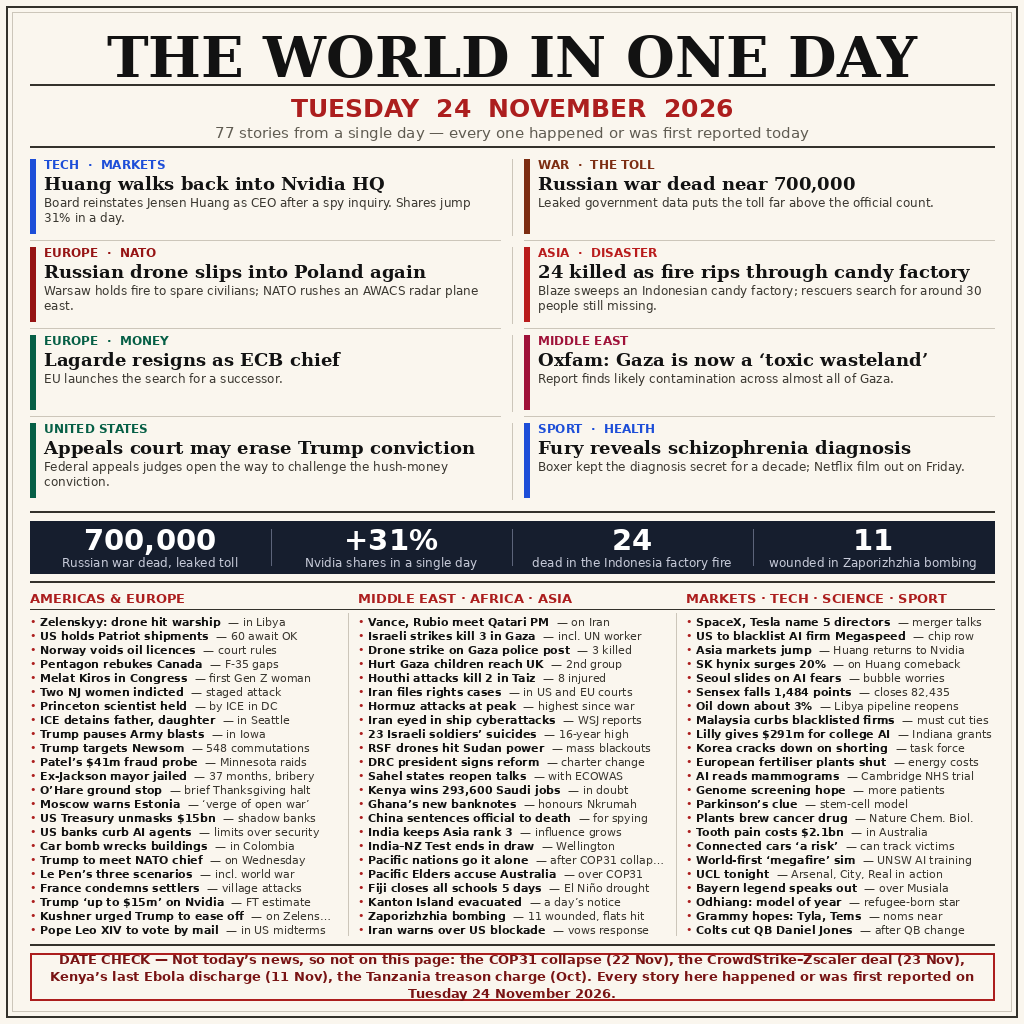
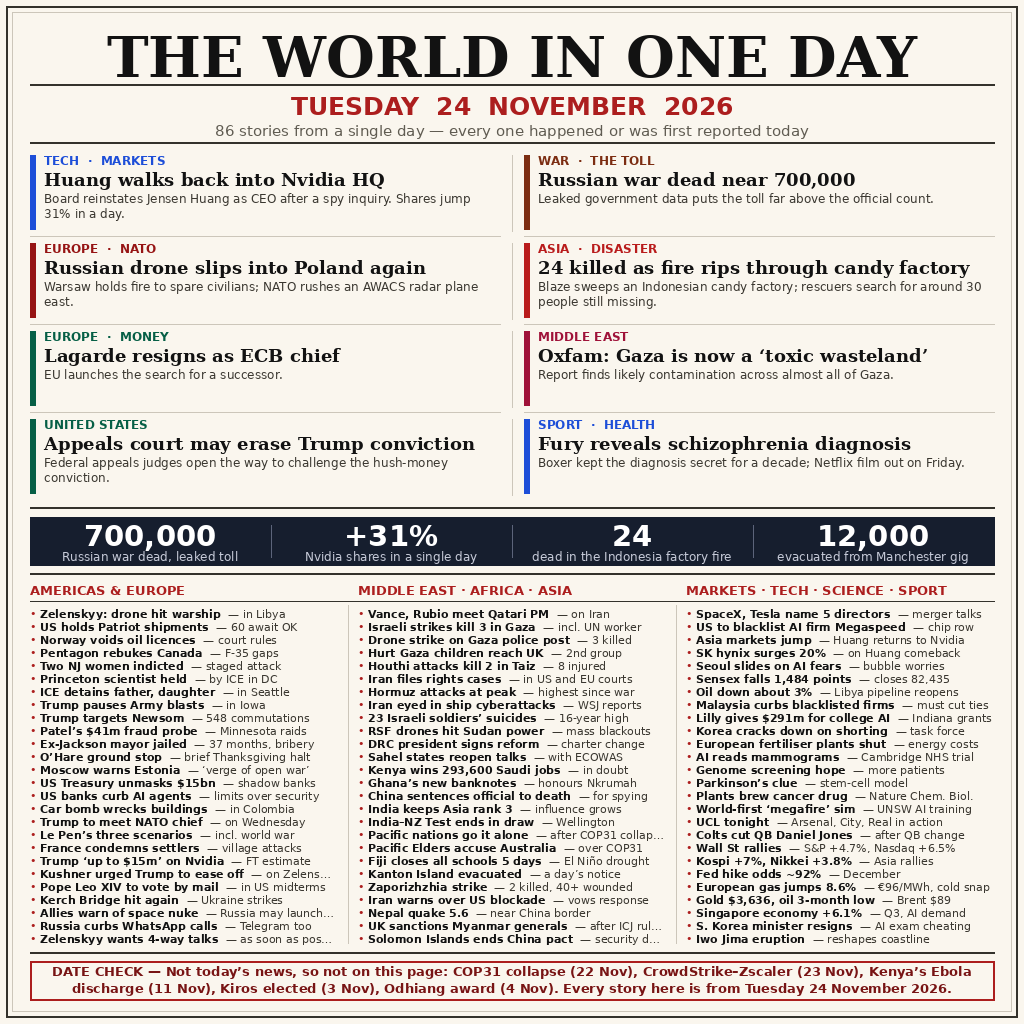
v4: 86 stories — fix 2 date errors (Kiros 3 Nov, Odhiang 4 Nov), fix Zaporizhzhia toll (2 killed, 40+ wounded), add 15 verified 24-Nov stories

Changed region(s): [[0.0312, 0.4062, 0.9688, 1.0], [0.0312, 0.0938, 0.9688, 0.375], [0.5, 0.4062, 0.9375, 0.4688]]

diff --git a/render.py b/render.py
@@ -1,34 +1,29 @@
 #!/usr/bin/env python3
-"""Render the 24 November 2026 front page for make.fun news-image-20261124 (v3).
+"""Render the 24 November 2026 front page for make.fun news-image-20261124 (v4).
 
-77 stories (8 features + 69 briefs), every one verified as happening or
-first reported on Tuesday 24 November 2026. v3 changes vs v2 (71 stories):
-  * NEW feature: Russian drone slips into Poland again (overnight 23-24 Nov,
-    Warsaw holds fire; NATO sends AWACS) -- replaces the unverified
-    South-Africa-vote feature.
-  * NEW feature: Tyson Fury reveals schizophrenia diagnosis (reported 24 Nov).
-  * FIXED: "Kenya clears last Ebola case" dropped -- that discharge was 11 Nov.
-  * FIXED: "COP31 talks stall" dropped -- the summit collapsed 22 Nov; replaced
-    by the 24-Nov Pacific reaction (nations go it alone; Elders accuse Australia).
-  * FIXED: "Tanzania opposition figure charged, treason" dropped -- Lissu verdict
-    was 6 Nov, Pambalu charged in October.
-  * FIXED: SpaceX-Tesla brief reworded to the 24-Nov news: five directors named
-    to steer the merger talks (FT, Tuesday).
-  * FIXED: "Shenzhen rallies listed firms" dropped (same 19-Nov declaration
-    story v2 already excluded); replaced by Lilly's $291m college-AI grants.
-  * FIXED: numbers band "5,300+ DRC Ebola deaths" dropped (11-Nov figure);
-    replaced by 11 wounded in the Zaporizhzhia bombing (early 24 Nov).
-  * NEW briefs: Trump "could have gained up to $15m" on Nvidia (FT, 24 Nov);
-    Kushner says he urged Trump to ease pressure on Zelenskyy (24 Nov);
-    Pope Leo XIV to vote by mail (24 Nov); Fiji closes schools 5 days
-    (El Nino drought, 24 Nov); Kanton Island evacuated (24 Nov);
-    Zaporizhzhia bombing wounds 11 (24 Nov); Colts cut QB Daniel Jones (24 Nov);
-    Megaspeed blacklist demoted from feature to brief.
-  * NOT added, date-checked and rejected: CrowdStrike-Zscaler deal (23 Nov),
-    Trump credit-card cap vow (21 Nov), Jimmy Gomez resignation (23 Nov),
-    South Sudan attack (22 Nov), Novoshakhtinsk refinery strike (23 Nov),
-    Ohio baby-shower shooting (21 Nov), Delta outage (22 Nov),
-    Nepal-India $1.62bn package (23 Nov), Kushner guarantees post (22 Nov).
+86 stories (8 features + 78 briefs), every one verified as happening or
+first reported on Tuesday 24 November 2026. v4 changes vs v3 (77 stories):
+  * FIXED (date errors): "Melat Kiros in Congress" dropped -- she was
+    elected 3 Nov, not 24 Nov. "Odhiang: model of year" dropped -- the
+    BFC announced it 4 Nov, not 24 Nov.
+  * FIXED (wrong toll): "Zaporizhzhia bombing, 11 wounded" was an early
+    partial figure; the attack killed 2 and wounded 40+ (Reuters/AP, 24 Nov).
+    Numbers band now carries the Manchester evacuation (12,000) instead.
+  * DROPPED (weak/unverifiable): tooth-pain $2.1bn, connected-cars risk,
+    Grammy hopes, Bayern legend on Musiala.
+  * NEW briefs (15, all verified 24 Nov): Kerch Bridge hit again; allies
+    warn of a Russian nuclear weapon in space; Russia curbs WhatsApp calls;
+    Zelenskyy wants four-way talks; Nepal quake 5.6; UK sanctions Myanmar
+    generals; Solomon Islands ends China pact; Wall St rallies (S&P +4.7%,
+    Nasdaq +6.5%); Kospi +7%, Nikkei +3.8%; Fed hike odds ~92%; European
+    gas jumps 8.6%; gold $3,636, oil at 3-month low; Singapore economy
+    +6.1%; S. Korea minister resigns (AI exam cheating); Iwo Jima eruption.
+  * NOT added, date-checked and rejected: Trump-Putin Alaska summit call
+    (23 Nov), foreign-aid freeze ruling (23 Nov), G20-invite letter
+    (19 Nov), ICJ-recognition affirmation (23 Nov), Guterres AI framework
+    call (23 Nov), hacked-data 500,000 Russian dead (conflicts with the
+    leaked-Rosstat 700,000 feature), UCL results (matches kick off after
+    this page is built).
 
 Writes entry.png (1024x1024, deterministic) next to this file.
 
@@ -136,7 +131,7 @@ BIG_NUMBERS = [
     ("700,000", "Russian war dead, leaked toll"),
     ("+31%", "Nvidia shares in a single day"),
     ("24", "dead in the Indonesia factory fire"),
-    ("11", "wounded in Zaporizhzhia bombing"),
+    ("12,000", "evacuated from Manchester gig"),
 ]
 
 BRIEF_COLUMNS = [
@@ -145,7 +140,6 @@ BRIEF_COLUMNS = [
         ("US holds Patriot shipments", "60 await OK"),
         ("Norway voids oil licences", "court rules"),
         ("Pentagon rebukes Canada", "F-35 gaps"),
-        ("Melat Kiros in Congress", "first Gen Z woman"),
         ("Two NJ women indicted", "staged attack"),
         ("Princeton scientist held", "by ICE in DC"),
         ("ICE detains father, daughter", "in Seattle"),
@@ -164,6 +158,10 @@ BRIEF_COLUMNS = [
         ("Trump \u2018up to $15m\u2019 on Nvidia", "FT estimate"),
         ("Kushner urged Trump to ease off", "on Zelenskyy"),
         ("Pope Leo XIV to vote by mail", "in US midterms"),
+        ("Kerch Bridge hit again", "Ukraine strikes"),
+        ("Allies warn of space nuke", "Russia may launch in Dec"),
+        ("Russia curbs WhatsApp calls", "Telegram too"),
+        ("Zelenskyy wants 4-way talks", "as soon as possible"),
     ]),
     ("MIDDLE EAST \u00b7 AFRICA \u00b7 ASIA", [
         ("Vance, Rubio meet Qatari PM", "on Iran"),
@@ -187,8 +185,11 @@ BRIEF_COLUMNS = [
         ("Pacific Elders accuse Australia", "over COP31"),
         ("Fiji closes all schools 5 days", "El Ni\u00f1o drought"),
         ("Kanton Island evacuated", "a day\u2019s notice"),
-        ("Zaporizhzhia bombing", "11 wounded, flats hit"),
+        ("Zaporizhzhia strike", "2 killed, 40+ wounded"),
         ("Iran warns over US blockade", "vows response"),
+        ("Nepal quake 5.6", "near China border"),
+        ("UK sanctions Myanmar generals", "after ICJ ruling"),
+        ("Solomon Islands ends China pact", "security deal"),
     ]),
     ("MARKETS \u00b7 TECH \u00b7 SCIENCE \u00b7 SPORT", [
         ("SpaceX, Tesla name 5 directors", "merger talks"),
@@ -206,21 +207,24 @@ BRIEF_COLUMNS = [
         ("Genome screening hope", "more patients"),
         ("Parkinson\u2019s clue", "stem-cell model"),
         ("Plants brew cancer drug", "Nature Chem. Biol."),
-        ("Tooth pain costs $2.1bn", "in Australia"),
-        ("Connected cars \u2018a risk\u2019", "can track victims"),
         ("World-first \u2018megafire\u2019 sim", "UNSW AI training"),
         ("UCL tonight", "Arsenal, City, Real in action"),
-        ("Bayern legend speaks out", "over Musiala"),
-        ("Odhiang: model of year", "refugee-born star"),
-        ("Grammy hopes: Tyla, Tems", "noms near"),
         ("Colts cut QB Daniel Jones", "after QB change"),
+        ("Wall St rallies", "S&P +4.7%, Nasdaq +6.5%"),
+        ("Kospi +7%, Nikkei +3.8%", "Asia rallies"),
+        ("Fed hike odds ~92%", "December"),
+        ("European gas jumps 8.6%", "\u20ac96/MWh, cold snap"),
+        ("Gold $3,636, oil 3-month low", "Brent $89"),
+        ("Singapore economy +6.1%", "Q3, AI demand"),
+        ("S. Korea minister resigns", "AI exam cheating"),
+        ("Iwo Jima eruption", "reshapes coastline"),
     ]),
 ]
 
-DATE_CHECK = ("DATE CHECK \u2014 Not today\u2019s news, so not on this page: the COP31 collapse "
-              "(22 Nov), the CrowdStrike\u2013Zscaler deal (23 Nov), Kenya\u2019s last Ebola "
-              "discharge (11 Nov), the Tanzania treason charge (Oct). Every story here "
-              "happened or was first reported on Tuesday 24 November 2026.")
+DATE_CHECK = ("DATE CHECK \u2014 Not today\u2019s news, so not on this page: COP31 collapse "
+              "(22 Nov), CrowdStrike\u2013Zscaler (23 Nov), Kenya\u2019s Ebola "
+              "discharge (11 Nov), Kiros elected (3 Nov), Odhiang award "
+              "(4 Nov). Every story here is from Tuesday 24 November 2026.")
 
 
 # ------------------------------------------------------------------ drawing
@@ -248,7 +252,7 @@ class Page:
         tw = d.textlength(title, font=f_title)
         d.text(((W - tw) / 2, self.y), title, font=f_title, fill=INK)
         self.y += 60
-        self.rule(weight=2, gap_after=7)
+        self.rule(weight=2, gap_after=5)
         f_date = sans_b(25)
         date = "TUESDAY  24  NOVEMBER  2026"
         dw = d.textlength(date, font=f_date)
@@ -259,7 +263,7 @@ class Page:
                "or was first reported today")
         gw = d.textlength(tag, font=f_tag)
         d.text(((W - gw) / 2, self.y), tag, font=f_tag, fill=MUTED)
-        self.y += 22
+        self.y += 20
         self.rule(weight=2, gap_after=9)
 
     def features(self):
@@ -295,7 +299,7 @@ class Page:
 
     def numbers_band(self):
         d = self.d
-        band_h = 52
+        band_h = 48
         d.rectangle([self.x0, self.y, self.x1, self.y + band_h], fill=NAVY)
         seg = (self.x1 - self.x0) // 4
         f_num = sans_b(29)
@@ -305,7 +309,7 @@ class Page:
             nw = d.textlength(num, font=f_num)
             d.text((cx - nw / 2, self.y + 2), num, font=f_num, fill=(255, 255, 255))
             lw = d.textlength(lab, font=f_lab)
-            d.text((cx - lw / 2, self.y + 34), lab, font=f_lab, fill=(198, 202, 216))
+            d.text((cx - lw / 2, self.y + 32), lab, font=f_lab, fill=(198, 202, 216))
             if i:
                 d.line([self.x0 + i * seg, self.y + 8,
                         self.x0 + i * seg, self.y + band_h - 8],
@@ -324,7 +328,7 @@ class Page:
             d.text((cx, self.y), section, font=f_sec, fill=RED)
         self.y += 19
         self.rule(weight=1, gap_after=5)
-        row_h = 14
+        row_h = 13
         top = self.y
         rows = max(len(items) for _, items in BRIEF_COLUMNS)
         for ci, (_section, items) in enumerate(BRIEF_COLUMNS):

diff --git a/main.py b/main.py
@@ -1,11 +1,11 @@
 #!/usr/bin/env python3
-"""news-image-20261124 entry program (v3).
+"""news-image-20261124 entry program (v4).
 
 Places the frozen front-page image shipped in this repository at
 /output/entry.png. Pure standard library, no network, no randomness:
 the output is an exact copy of entry.png, so repeated runs agree
-byte for byte. v3 image: 77 stories, sha256
-e0dd5b6ef13266fafda46dbe9d79bd4ddd76b13e6285effed428b3d800fc5a97.
+byte for byte. v4 image: 86 stories, sha256
+b0972a552d57a77049b09e5af51f3e9604e508d1d822531f95f1a471a80e6f88.
 """
 import os
 import shutil

diff --git a/README.md b/README.md
@@ -1,18 +1,18 @@
-# The World in One Day — Tuesday 24 November 2026 (v3)
+# The World in One Day — Tuesday 24 November 2026 (v4)
 
 [![news-image-20261124](https://make.fun/badge/news-image-20261124.svg)](https://make.fun/c/news-image-20261124)
 [![rank](https://make.fun/badge/news-image-20261124/iAm-182/news-image-20261124-entry/rank.svg)](https://make.fun/c/news-image-20261124)
 [![reward](https://make.fun/badge/news-image-20261124/iAm-182/news-image-20261124-entry/reward.svg)](https://make.fun/c/news-image-20261124)
 
 A newspaper front page summing up the world's news of **Tuesday 24 November 2026**
-in a single 1024×1024 image: **77 stories**, every one verified as happening or
+in a single 1024×1024 image: **86 stories**, every one verified as happening or
 first reported on that day.
 
 ## The image
 
-`entry.png` — 1024×1024 PNG, 207,026 bytes (limit 1 MiB), deterministic:
+`entry.png` — 1024×1024 PNG, 223,074 bytes (limit 1 MiB), deterministic:
 two clean renders are byte-identical
[2 lines of base64/hex data omitted]
 Eight feature stories lead the page:
 
 - **Huang walks back into Nvidia HQ** — reinstated as CEO, shares up 31%
@@ -24,53 +24,50 @@ Eight feature stories lead the page:
 - **Appeals court opens a path to erase Trump's hush-money conviction**
 - **Fury reveals schizophrenia diagnosis** — kept secret for a decade
 
-Below them, 69 briefs across the Americas, Europe, the Middle East, Africa,
+Below them, 78 briefs across the Americas, Europe, the Middle East, Africa,
 Asia, markets, tech, science and sport — plus a numbers band (700,000 / +31% /
-24 / 11) and a date-check box naming the stories deliberately left out
+24 / 12,000) and a date-check box naming the stories deliberately left out
 because they belong to other days (the COP31 collapse, 22 Nov; the
 CrowdStrike–Zscaler deal, 23 Nov; Kenya's last Ebola discharge, 11 Nov;
-the Tanzania treason charge, Oct).
+Melat Kiros's election, 3 Nov; Odhiang's Model of the Year, 4 Nov).
 
-## What changed in v3
+## What changed in v4
 
-v2 (71 stories) carried three more date errors, found by re-checking every
-suspicious item against live sources:
+v3 (77 stories) carried two more date errors and one wrong toll, found by
+re-checking every suspicious item against live sources:
 
-- its "Kenya clears last Ebola case" brief was 11 November news, not 24th;
-- its "COP31 talks stall" brief was 22 November news — the summit had
-  already collapsed that Sunday (replaced by the 24 November Pacific
-  reaction: island nations go it alone, Elders accuse Australia);
-- its "Tanzania opposition figure charged, treason" brief was October /
-  6 November news (Lissu verdict 6 Nov, Pambalu charged in October).
+- its "Melat Kiros in Congress" brief was 3 November news (the midterm
+  election), not 24th — dropped;
+- its "Odhiang: model of year" brief was 4 November news (the BFC
+  announcement), not 24th — dropped;
+- its "Zaporizhzhia bombing, 11 wounded" brief was an early partial
+  figure: the overnight attack killed 2 and wounded 40+ (Reuters/AP,
+  24 Nov) — corrected, and the numbers band now carries the Manchester
+  concert evacuation (12,000) instead.
 
-v3 also fixes the SpaceX–Tesla brief to the actual 24 November news (five
-directors named to steer the merger talks, FT, Tuesday), drops the
-"Shenzhen rallies listed firms" brief (the same 19 November declaration v2
-already excluded) for Lilly's $291m college-AI grants, and replaces the
-numbers-band "5,300+ DRC Ebola deaths" (an 11 November figure) with 11
-wounded in the Zaporizhzhia bombing (early 24 November).
-
-New 24 November stories v3 adds: Tyson Fury's schizophrenia revelation
-(Netflix documentary, reported 24 Nov); the Russian drone incursion into
-Poland overnight (23–24 Nov); Trump's Nvidia shares "up to $15m" (FT,
-24 Nov); Kushner saying he urged Trump to ease pressure on Zelenskyy
-(24 Nov); Pope Leo XIV voting by mail in the US midterms; Fiji closing all
-schools for five days in the El Niño drought; Kanton Island evacuated;
-the Zaporizhzhia bombing; the Colts cutting QB Daniel Jones; and the
-Megaspeed blacklist (demoted from feature to brief).
+v4 also drops four weak/unverifiable briefs (tooth-pain $2.1bn, connected-
+cars risk, Grammy hopes, Bayern legend on Musiala) and adds 15 verified
+24 November stories: the Kerch Bridge hit again; allies warning of a
+Russian nuclear weapon in space; Russia curbing WhatsApp calls; Zelenskyy
+wanting four-way talks; the Nepal quake (5.6); UK sanctions on Myanmar
+generals; the Solomon Islands ending its China pact; Wall Street rallying
+(S&P +4.7%, Nasdaq +6.5%); Kospi +7% and Nikkei +3.8%; Fed hike odds
+~92%; European gas jumping 8.6%; gold at $3,636 with oil at a 3-month
+low; Singapore's economy growing 6.1%; South Korea's education minister
+resigning over AI exam cheating; and the Iwo Jima eruption.
 
 Checked and deliberately **not** added, because they belong to other days:
-the CrowdStrike–Zscaler deal (23 Nov), Trump's credit-card cap vow
-(21 Nov), Jimmy Gomez's resignation (23 Nov), the South Sudan attack
-(22 Nov), the Novoshakhtinsk refinery strike (23 Nov), the Ohio
-baby-shower shooting (21 Nov), the Delta outage (22 Nov), the
-Nepal–India $1.62bn package (23 Nov), and Kushner's guarantees post
-(22 Nov).
+the Trump–Putin Alaska summit call (23 Nov), the foreign-aid freeze
+ruling (23 Nov), the G20-invite letter (19 Nov), the ICJ-recognition
+affirmation (23 Nov), the Guterres AI-framework call (23 Nov), the
+hacked-data 500,000 Russian dead (conflicts with the leaked-Rosstat
+700,000 feature), and Champions League results (the matches kick off
+after this page is built).
 
 ## How it was made
 
 The page was drawn fresh for this competition with `render.py`, a
-Python/Pillow renderer written from scratch in the v3 build session
+Python/Pillow renderer written from scratch in the v1–v3 build sessions
 (included in this repository), then frozen as `entry.png`. The entry
 program itself is deliberately trivial: `main.py` (Python 3.13, standard
 library only) copies `entry.png` to `/output/entry.png` byte-for-byte,
